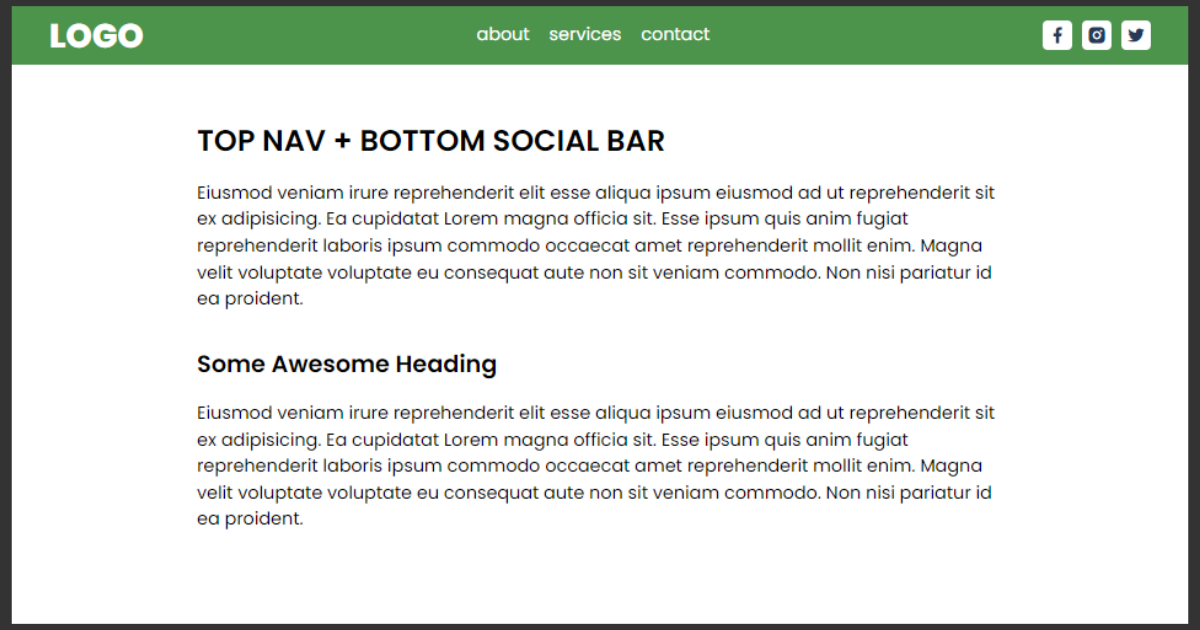
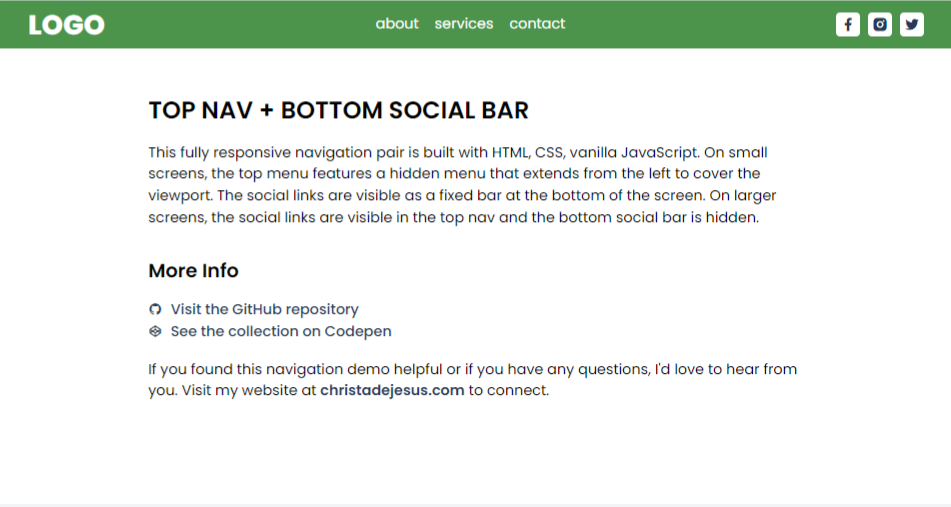
Update main content and social image

Changed region(s): [[0.1525, 0.1775, 0.8538, 0.858], [0.0, 0.0, 1.0, 1.0]]

diff --git a/top-nav-bottom-social-bar/index.html b/top-nav-bottom-social-bar/index.html
@@ -1,5 +1,6 @@
 <!DOCTYPE html>
 <html lang="en">
+
 <head>
     <meta charset="UTF-8">
     <meta http-equiv="X-UA-Compatible" content="IE=edge">
@@ -15,6 +16,7 @@
     <link href="https://cdn.jsdelivr.net/npm/remixicon@2.5.0/fonts/remixicon.css" rel="stylesheet">
     <script src="script.js" defer></script>
 </head>
+
 <body>
     <!-- TOP NAV -->
     <!-- Remember to add *** target="_blank" rel="noreferrer" *** to external links. This is omitted below for demo purposes only. -->
@@ -38,17 +40,19 @@
     <!-- END TOP NAV -->
     <main>
         <h1>Top Nav + Bottom Social Bar</h1>
-        <p>Eiusmod veniam irure reprehenderit elit esse aliqua ipsum eiusmod ad ut reprehenderit sit ex adipisicing. Ea
-            cupidatat Lorem magna officia sit. Esse ipsum quis anim fugiat reprehenderit laboris ipsum commodo occaecat
-            amet reprehenderit mollit enim. Magna velit voluptate voluptate eu consequat aute non sit veniam commodo.
-            Non nisi pariatur id ea proident.</p>
-        <h2>Some Awesome Heading</h2>
-        <p>Eiusmod veniam irure reprehenderit elit esse aliqua ipsum eiusmod ad ut reprehenderit sit ex adipisicing. Ea
-            cupidatat Lorem magna officia sit. Esse ipsum quis anim fugiat reprehenderit laboris ipsum commodo occaecat
-            amet
-            reprehenderit mollit enim. Magna velit voluptate voluptate eu consequat aute non sit veniam commodo. Non
-            nisi
-            pariatur id ea proident.</p>
+        <p>This fully responsive navigation pair is built with HTML, CSS, vanilla JavaScript. On small screens, the top
+            menu features a hidden menu that extends from the left to cover the viewport. The social links are visible as a
+            fixed bar at the bottom of the screen. On larger screens, the social links are visible in the top nav and the bottom
+            social bar is hidden.</p>
+        <h2>More Info</h2>
+        <a href="https://github.com/christadejesus/navigation/tree/main/3-tier-top-nav" class="flex-link" target="_blank"
+            rel="noreferrer"><i class="ri-github-fill"></i>Visit the GitHub repository</a>
+        <a href="https://codepen.io/collection/yrPyag" target="_blank" rel="noreferrer" class="flex-link"><i
+                class="ri-codepen-fill"></i>See the collection on Codepen</a>
+        
+        <p>If you found this navigation demo helpful or if you have any questions, I'd love to hear from you.
+            Visit my website at <a href="https://christadejesus.com" target="_blank" rel="noreferrer">christadejesus.com</a> to
+            connect.</p>
 
         <!-- SOCIAL BAR -->
         <div class="social-bar">
@@ -59,4 +63,5 @@
         <!-- END SOCIAL BAR -->
     </main>
 </body>
+
 </html>

diff --git a/top-nav-bottom-social-bar/style.css b/top-nav-bottom-social-bar/style.css
@@ -19,7 +19,7 @@
 
     /* GLOBALS */
     font-size: 10px;
-    line-height: 100%;
+    line-height: 1.5;
 }
 
 /* MAIN STYLES */
@@ -28,7 +28,6 @@ body {
   font-size: 1.8rem;
 }
 p {
-  line-height: 150%;
   margin: 20px 0;
 }
 h1 {
@@ -51,11 +50,7 @@ a {
 ul {
   list-style: none;
 }
-main {
-  padding: 40px 20px 100px 20px;
-  max-width: 900px;
-  margin: 0 auto;
-}
+
 /* TOPNAV */
 .btn {
     display: none;
@@ -111,6 +106,28 @@ main {
 }
 .social-list i {
     font-size: 2rem;
+}
+/* MAIN CONTENT */
+main {
+  padding: 40px 20px 100px 20px;
+  max-width: 900px;
+  margin: 0 auto;
+}
+p a {
+  color: var(--primary-2);
+  font-weight: 600;
+}
+p a:hover {
+  opacity: 80%;
+}
+.flex-link {
+  display: flex;
+  gap: 1rem;
+  color: var(--primary-2);
+  font-weight: 500;
+}
+.flex-link:hover {
+  color: var(--primary-1);
 }
 /* SOCIAL BAR */
 .social-bar {
